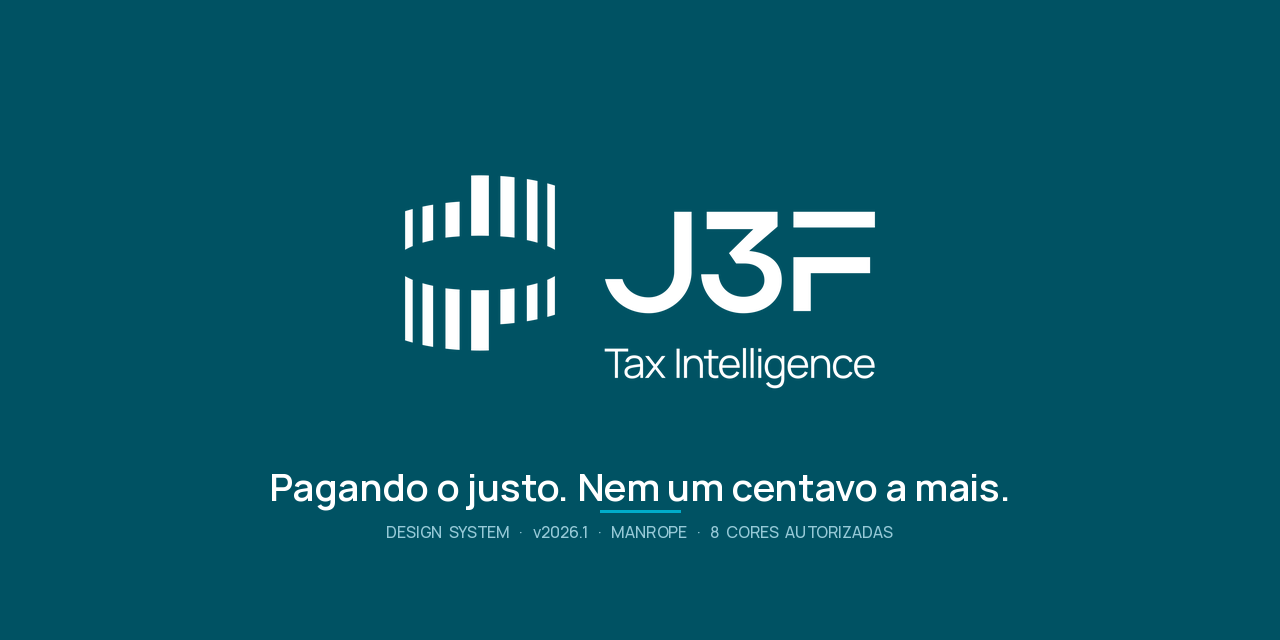
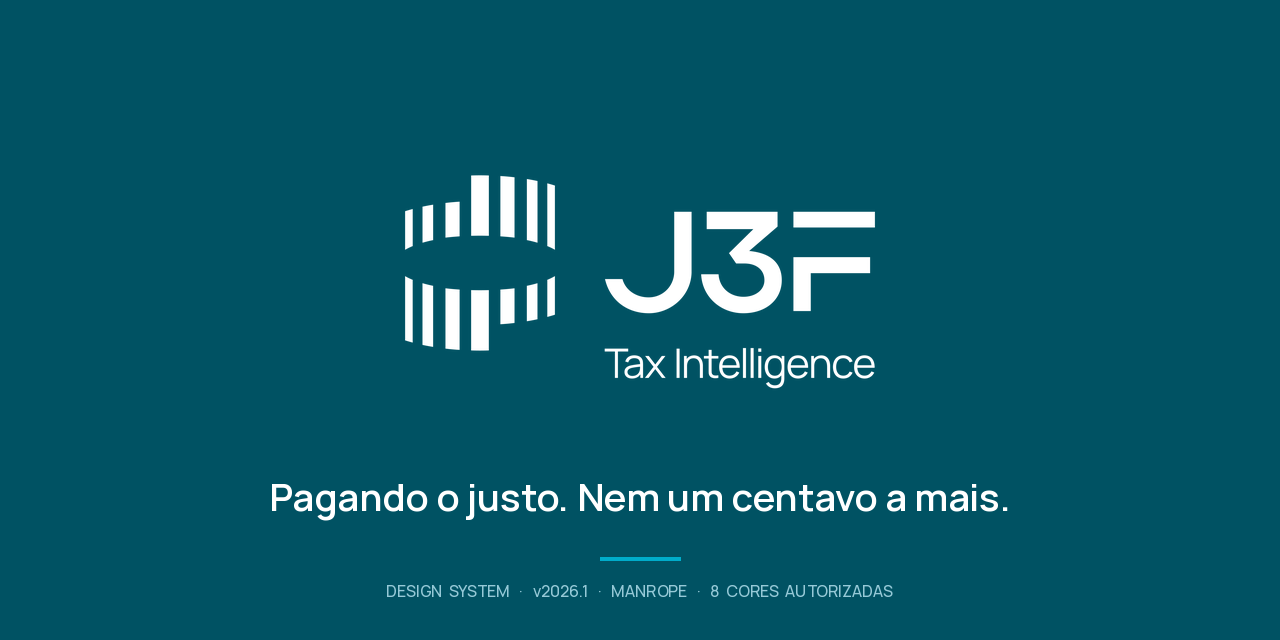
fix: aumenta margem entre tagline e linha decorativa no social-preview

Changed region(s): [[0.2188, 0.75, 0.7812, 0.875], [0.2812, 0.9062, 0.6875, 0.9375]]

diff --git a/.github/generate-social-preview.py b/.github/generate-social-preview.py
@@ -44,23 +44,24 @@ font_descriptor = ImageFont.truetype(str(font_dir / "Manrope-Medium.ttf"), 16)
 tagline = "Pagando o justo. Nem um centavo a mais."
 tagline_bbox = draw.textbbox((0, 0), tagline, font=font_tagline)
 tagline_w = tagline_bbox[2] - tagline_bbox[0]
+tagline_h = tagline_bbox[3] - tagline_bbox[1]
 tagline_x = (W - tagline_w) // 2
-tagline_y = logo_y + logo.height + 60
+tagline_y = logo_y + logo.height + 70
 draw.text((tagline_x, tagline_y), tagline, font=font_tagline, fill=WHITE)
 
-# Descritor "Design System · v2026.1"
+# Linha decorativa em Teal — abaixo da tagline com folga para o descender
+line_w = 80
+line_x = (W - line_w) // 2
+line_y = tagline_y + tagline_h + 50
+draw.rectangle([line_x, line_y, line_x + line_w, line_y + 3], fill=ACCENT)
+
+# Descritor — abaixo da linha
 descriptor = "DESIGN  SYSTEM   ·   v2026.1   ·   MANROPE   ·   8  CORES  AUTORIZADAS"
 descriptor_bbox = draw.textbbox((0, 0), descriptor, font=font_descriptor)
 descriptor_w = descriptor_bbox[2] - descriptor_bbox[0]
 descriptor_x = (W - descriptor_w) // 2
-descriptor_y = tagline_y + 60
+descriptor_y = line_y + 22
 draw.text((descriptor_x, descriptor_y), descriptor, font=font_descriptor, fill=SOFT)
-
-# Linha decorativa em Teal acima do descritor
-line_w = 80
-line_x = (W - line_w) // 2
-line_y = tagline_y + 50
-draw.rectangle([line_x, line_y, line_x + line_w, line_y + 2], fill=ACCENT)
 
 # Output
 out = REPO / ".github" / "social-preview.png"